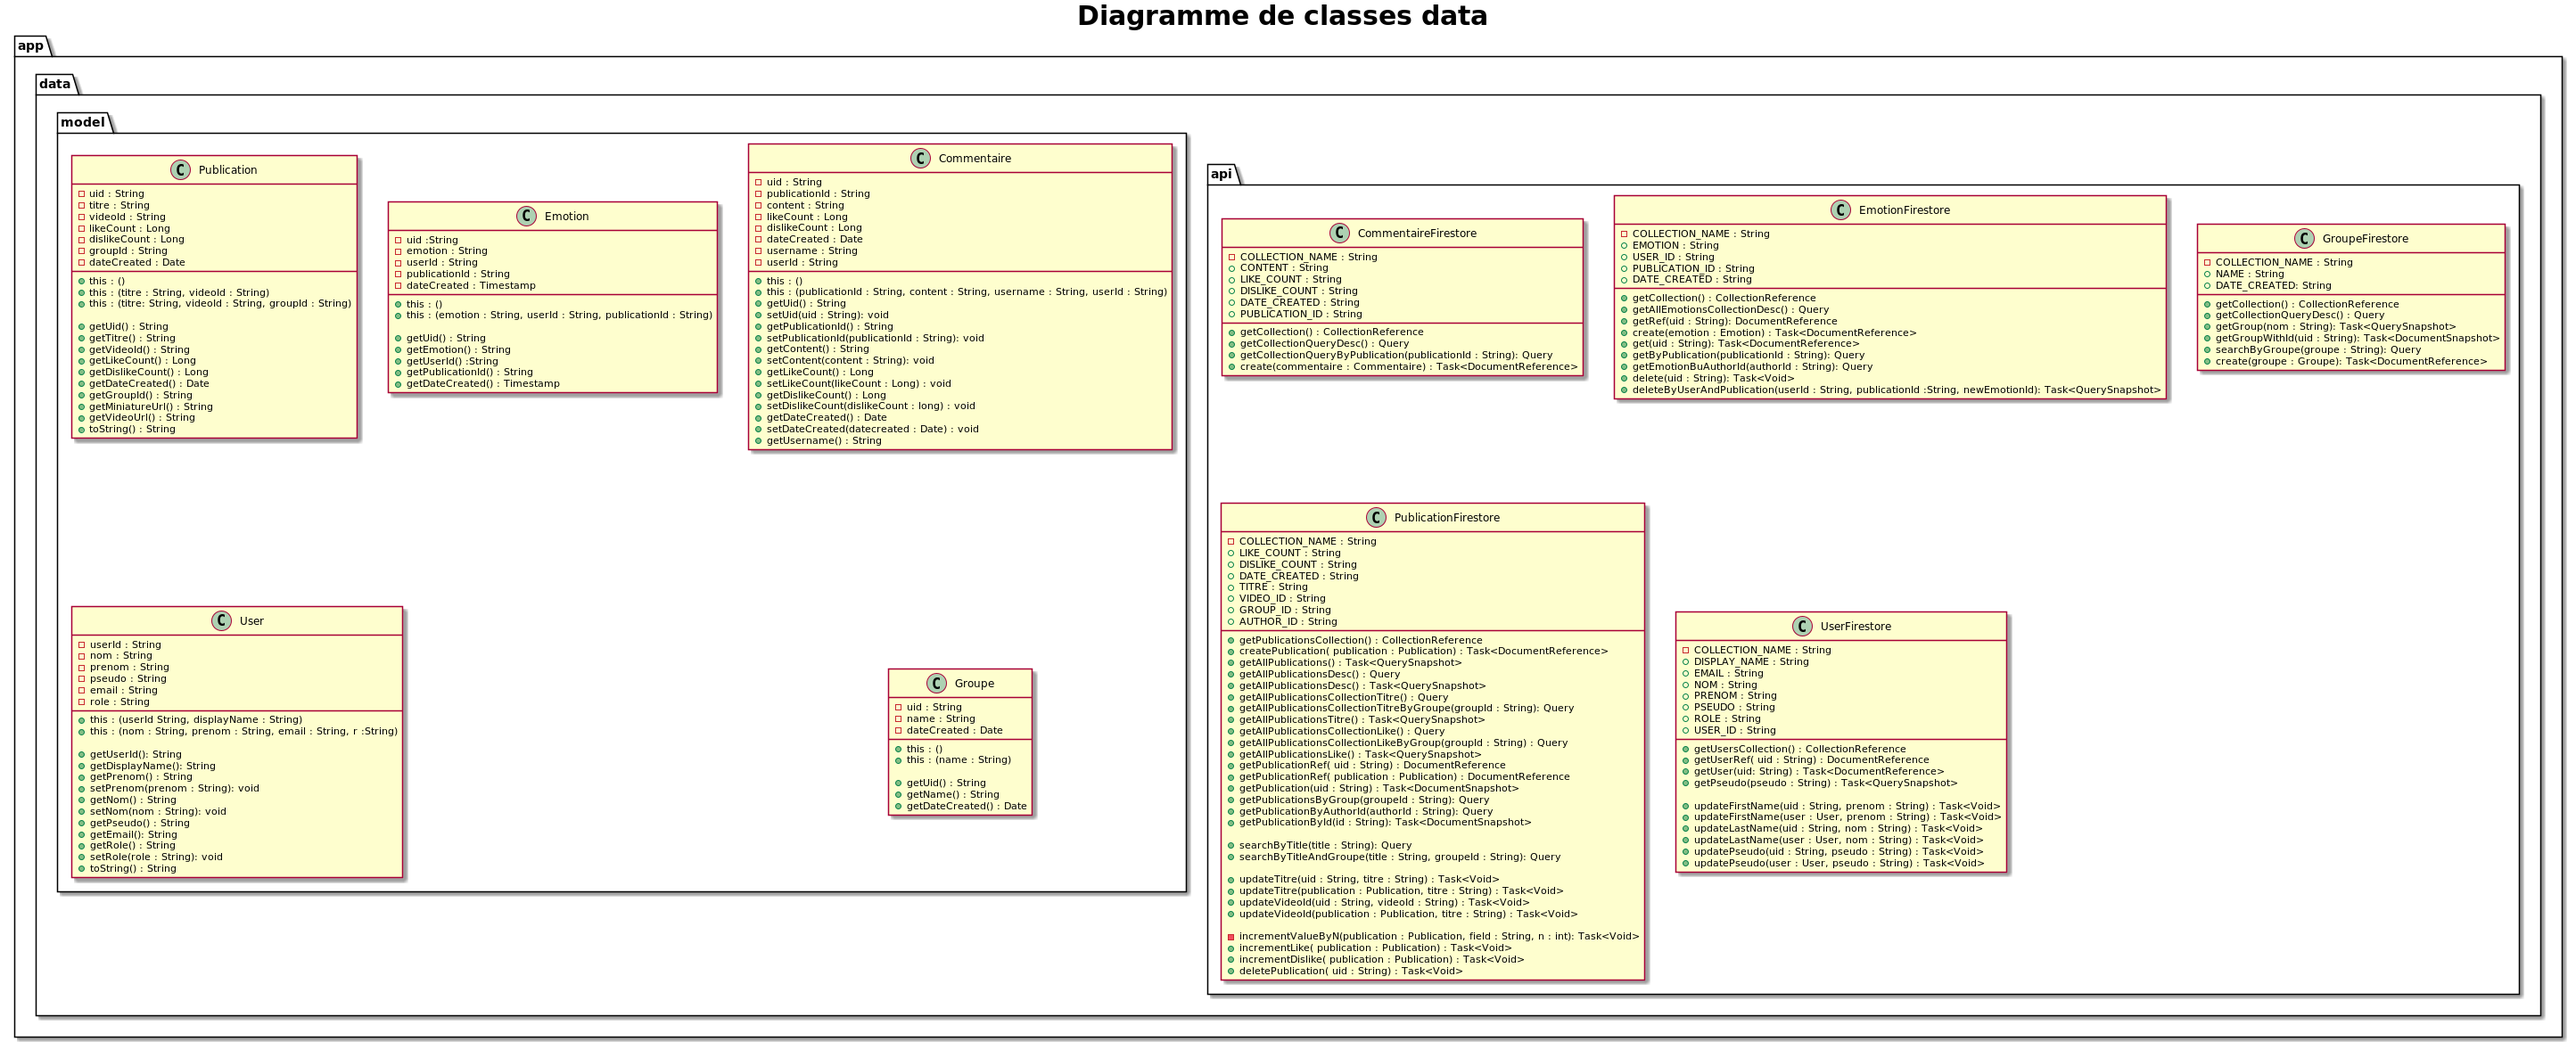
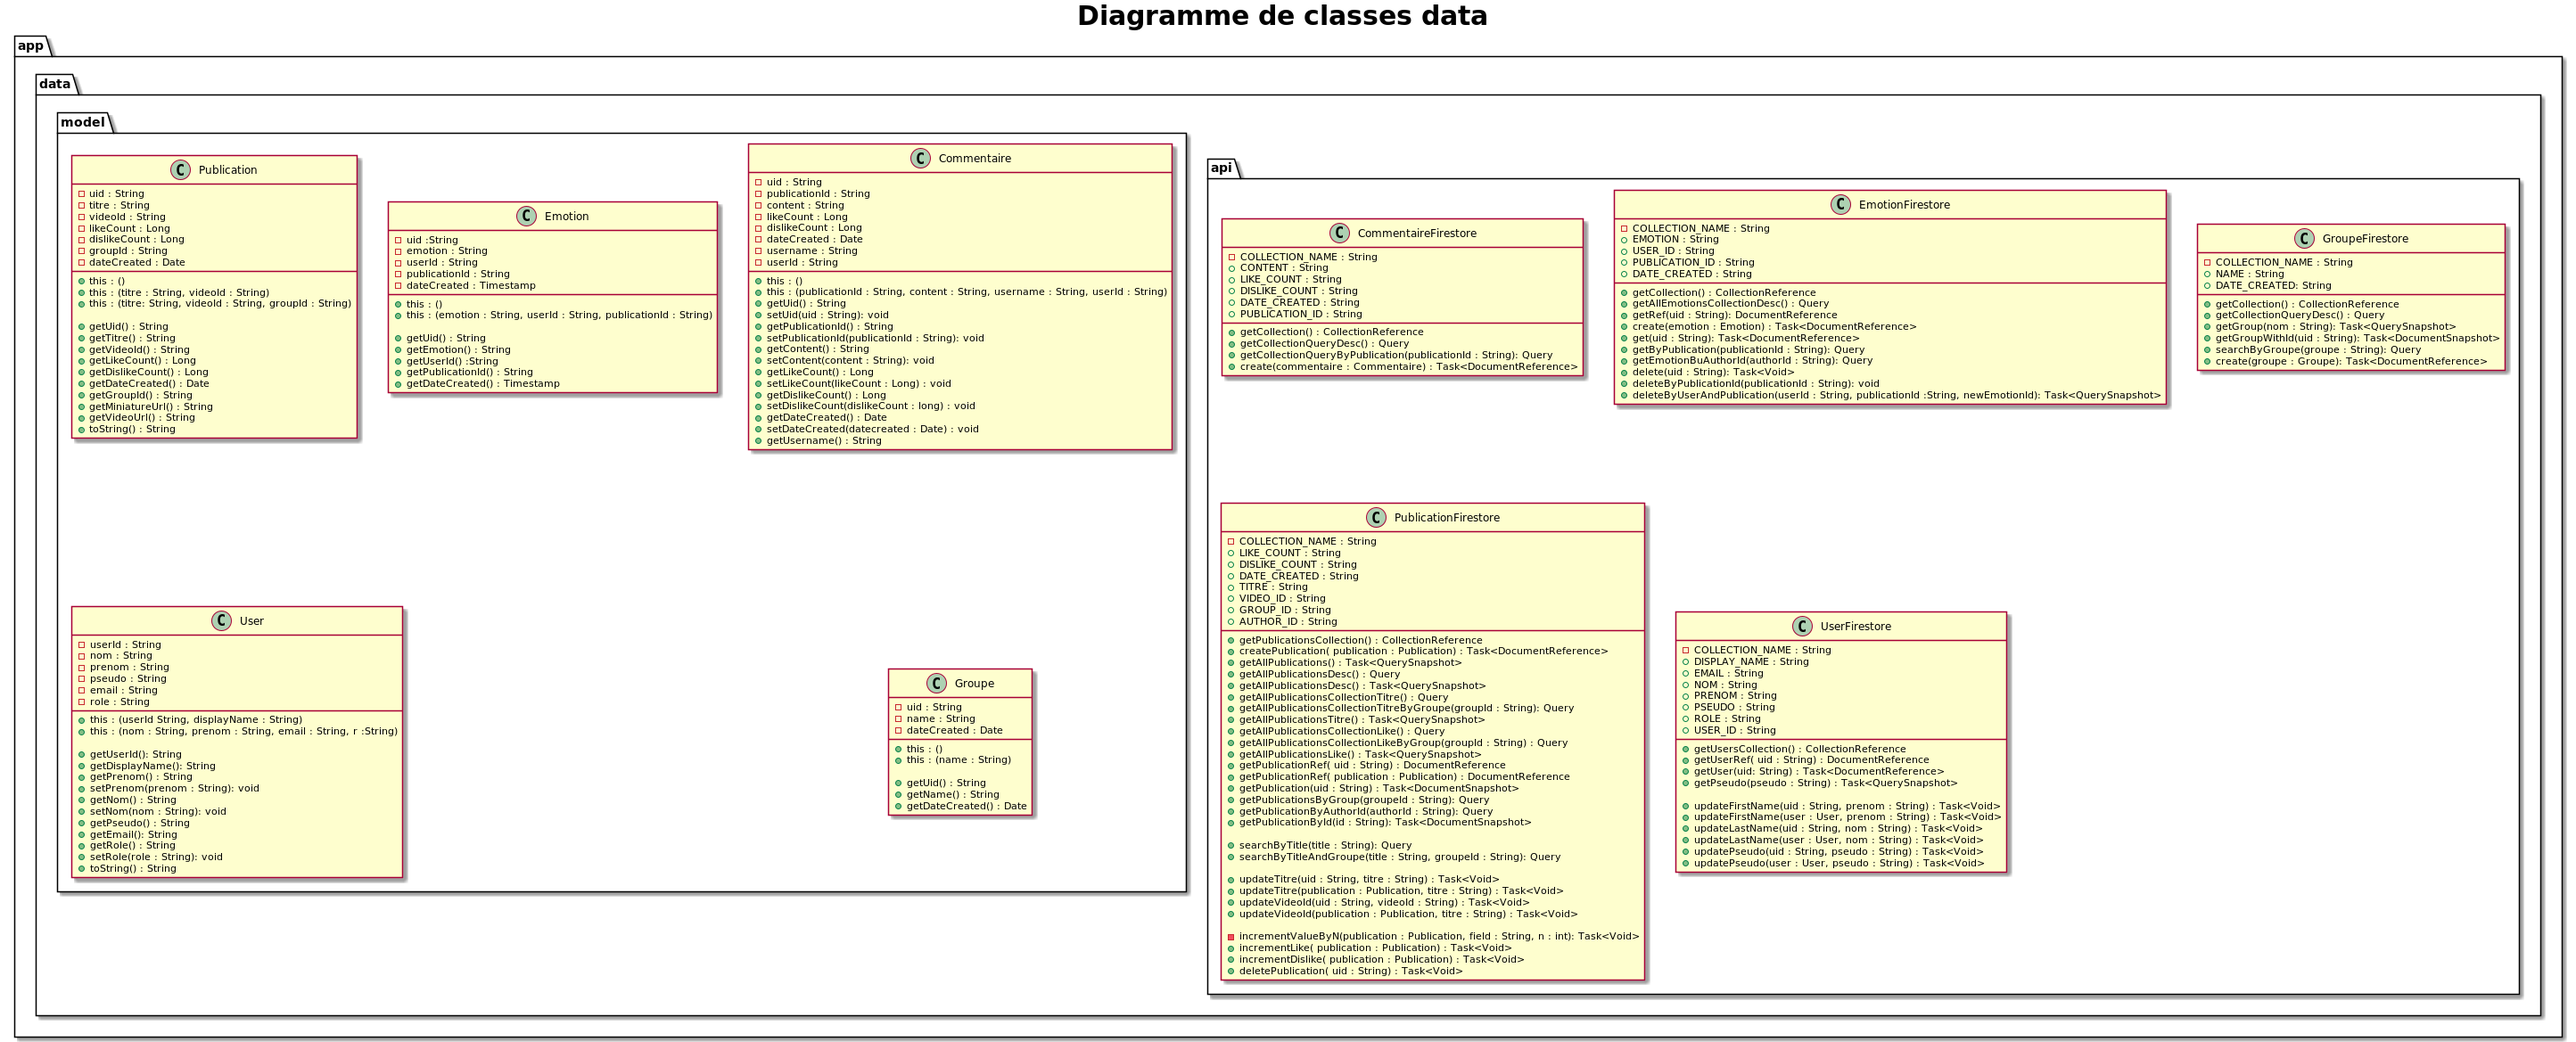
fix the bug #120 + other bugs with nullpointers

Changed region(s): [[0.4673, 0.154, 0.9657, 0.4003]]

diff --git a/app/src/main/java/github/com/kazetavi/sonofy/ui/homepage/HomeActivity.java b/app/src/main/java/github/com/kazetavi/sonofy/ui/homepage/HomeActivity.java
@@ -21,24 +21,21 @@ import github.com.kazetavi.sonofy.ui.login.LoginActivity;
 import github.com.kazetavi.sonofy.ui.main.PublicationAdapter;
 import github.com.kazetavi.sonofy.ui.recommandation.RecommandationActivity;
 import github.com.kazetavi.sonofy.ui.user.MainProfilActivity;
-import github.com.kazetavi.sonofy.ui.user.ProfilActivity;
 
 public class HomeActivity extends AppCompatActivity {
     private RecyclerView publicationRecyclerView;
     private RecyclerView.Adapter adapter;
+    private FirebaseAuth user = FirebaseAuth.getInstance();
 
     @Override
     protected void onCreate(Bundle savedInstanceState) {
         super.onCreate(savedInstanceState);
         setContentView(R.layout.activity_homepage);
 
-        final Intent intent = getIntent();
-
         Button logout = findViewById(R.id.logout1);
         Button profil = findViewById(R.id.profil_button1);
         Button groupes = findViewById(R.id.listeGroupe);
         Button recommandations = findViewById(R.id.recommendation1);
-
 
         publicationRecyclerView = findViewById(R.id.publicationRecyclerView1);
 
@@ -72,7 +69,9 @@ public class HomeActivity extends AppCompatActivity {
         profil.setOnClickListener(new View.OnClickListener() {
             @Override
             public void onClick(View v) {
+                String uid = user.getUid();
                 Intent intent = new Intent(getBaseContext(), MainProfilActivity.class);
+                intent.putExtra("userID", uid);
                 startActivity(intent);
             }
         });

diff --git a/app/src/main/java/github/com/kazetavi/sonofy/data/api/EmotionFirestore.java b/app/src/main/java/github/com/kazetavi/sonofy/data/api/EmotionFirestore.java
@@ -1,5 +1,8 @@
 package github.com.kazetavi.sonofy.data.api;
 
+import androidx.annotation.NonNull;
+
+import com.google.android.gms.tasks.OnCompleteListener;
 import com.google.android.gms.tasks.Task;
 import com.google.firebase.firestore.CollectionReference;
 import com.google.firebase.firestore.DocumentReference;
@@ -8,6 +11,9 @@ import com.google.firebase.firestore.FirebaseFirestore;
 import com.google.firebase.firestore.Query;
 import com.google.firebase.firestore.QueryDocumentSnapshot;
 import com.google.firebase.firestore.QuerySnapshot;
+
+import java.util.Objects;
+import java.util.function.Consumer;
 
 import github.com.kazetavi.sonofy.data.model.Emotion;
 
@@ -63,6 +69,19 @@ public class EmotionFirestore {
         return getCollection().document(uid).delete();
     }
 
+
+    public static void deleteByPublicationId(String publicationId){
+        getByPublication(publicationId).get().addOnCompleteListener(new OnCompleteListener<QuerySnapshot>() {
+            @Override
+            public void onComplete(@NonNull Task<QuerySnapshot> task) {
+                    if(task.isSuccessful()){
+                        for(QueryDocumentSnapshot query : Objects.requireNonNull(task.getResult())){
+                            delete(query.getId());
+                        }
+                    }
+            }
+        });
+    }
 
     /*
      * La méthode supprime toutes les émotions hormis celle qui a l'id de la nouvelle émotion

diff --git a/app/src/main/java/github/com/kazetavi/sonofy/ui/listgroup/ListGroupActivity.java b/app/src/main/java/github/com/kazetavi/sonofy/ui/listgroup/ListGroupActivity.java
@@ -22,7 +22,6 @@ import github.com.kazetavi.sonofy.data.model.Groupe;
 import github.com.kazetavi.sonofy.ui.addgroup.AddGroupActivity;
 import github.com.kazetavi.sonofy.ui.homepage.HomeActivity;
 import github.com.kazetavi.sonofy.ui.login.LoginActivity;
-import github.com.kazetavi.sonofy.ui.recommandation.RecommandationActivity;
 import github.com.kazetavi.sonofy.ui.user.MainProfilActivity;
 import github.com.kazetavi.sonofy.ui.search.SearchActivity;
 
@@ -32,8 +31,7 @@ public class ListGroupActivity extends AppCompatActivity {
 
     private RecyclerView groupeRecyclerView;
     private RecyclerView.Adapter adapter;
-    private Button recommandationButton;
-
+    private final FirebaseAuth user = FirebaseAuth.getInstance();
 
     @Override
     protected void onCreate(Bundle savedInstanceState) {
@@ -82,7 +80,9 @@ public class ListGroupActivity extends AppCompatActivity {
         profil.setOnClickListener(new View.OnClickListener() {
             @Override
             public void onClick(View v) {
+                String uid = user.getUid();
                 Intent intent = new Intent(getBaseContext(), MainProfilActivity.class);
+                intent.putExtra("userID", uid);
                 startActivity(intent);
             }
         });

diff --git a/app/src/main/java/github/com/kazetavi/sonofy/ui/main/MainActivity.java b/app/src/main/java/github/com/kazetavi/sonofy/ui/main/MainActivity.java
@@ -33,6 +33,7 @@ public class MainActivity extends AppCompatActivity {
 
     private RecyclerView publicationRecyclerView;
     private RecyclerView.Adapter adapter;
+    private final FirebaseAuth user = FirebaseAuth.getInstance();
 
     @Override
     protected void onCreate(Bundle savedInstanceState) {
@@ -129,7 +130,9 @@ public class MainActivity extends AppCompatActivity {
         profil.setOnClickListener(new View.OnClickListener() {
             @Override
             public void onClick(View v) {
+                String uid = user.getUid();
                 Intent intent = new Intent(getBaseContext(), MainProfilActivity.class);
+                intent.putExtra("userID", uid);
                 startActivity(intent);
             }
         });

diff --git a/app/src/main/java/github/com/kazetavi/sonofy/ui/publication/PublicationActivity.java b/app/src/main/java/github/com/kazetavi/sonofy/ui/publication/PublicationActivity.java
@@ -17,7 +17,6 @@ import android.content.Intent;
 import android.net.Uri;
 import android.os.Bundle;
 import android.view.View;
-import android.widget.EditText;
 import android.widget.ImageView;
 import android.widget.LinearLayout;
 import android.widget.TextView;
@@ -35,11 +34,11 @@ public class PublicationActivity extends AppCompatActivity {
     private TextView dislikeCountTextView;
     private TextView authorUsernameTextView;
 
-    private EditText commentaireEditText;
+    //private EditText commentaireEditText;
 
     private Publication publication;
 
-    private RecyclerView commentaireRecyclerView;
+    //private RecyclerView commentaireRecyclerView;
     private RecyclerView emotionRecyclerView;
     private RecyclerView.Adapter adapter;
 

diff --git a/app/src/main/java/github/com/kazetavi/sonofy/ui/main/PublicationAdapter.java b/app/src/main/java/github/com/kazetavi/sonofy/ui/main/PublicationAdapter.java
@@ -25,6 +25,7 @@ import java.util.List;
 
 import github.com.kazetavi.sonofy.R;
 import github.com.kazetavi.sonofy.data.api.CommentaireFirestore;
+import github.com.kazetavi.sonofy.data.api.EmotionFirestore;
 import github.com.kazetavi.sonofy.data.api.PublicationFirestore;
 import github.com.kazetavi.sonofy.data.api.UserFirestore;
 import github.com.kazetavi.sonofy.data.model.Publication;
@@ -84,6 +85,7 @@ public class PublicationAdapter extends RecyclerView.Adapter<PublicationAdapter.
             @Override
             public void onClick(View view) {
                 PublicationFirestore.deletePublication(publication.getUid());
+                EmotionFirestore.deleteByPublicationId(publication.getUid());
             }
         });
 
